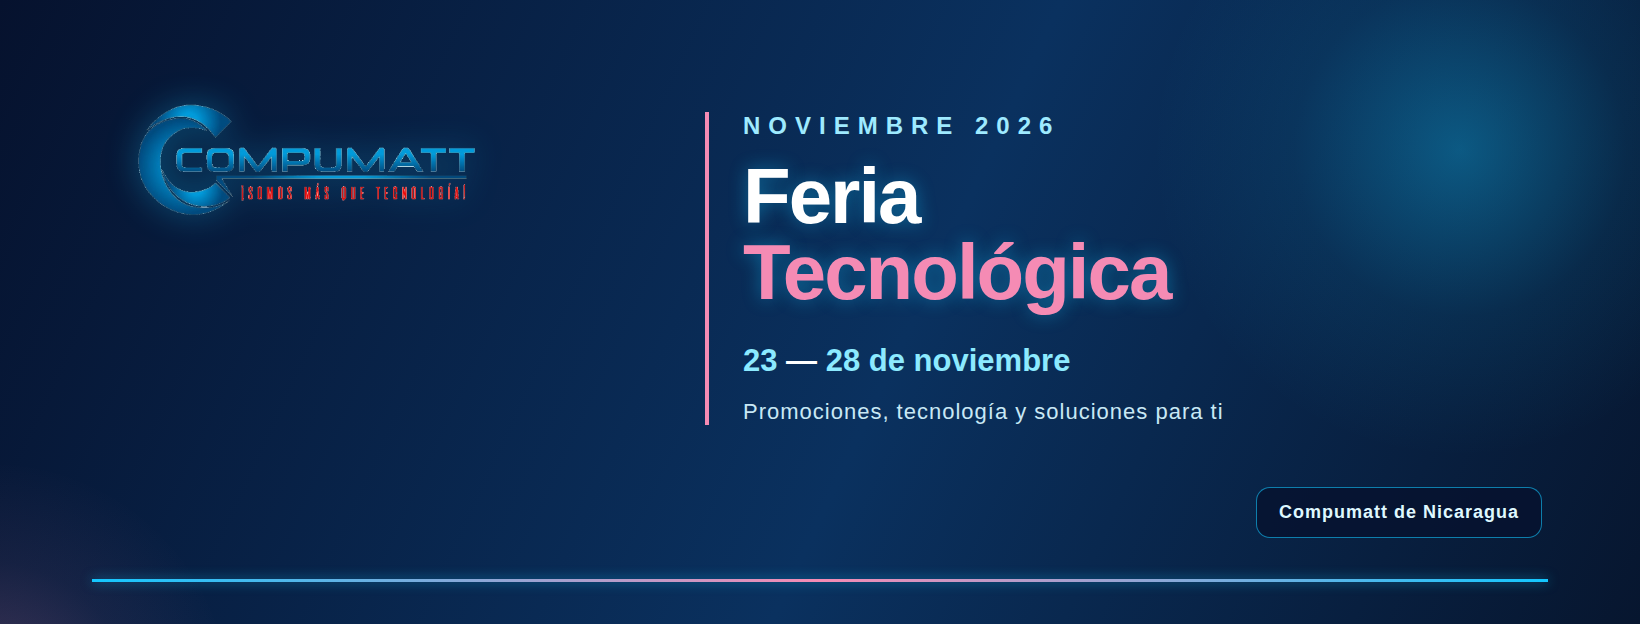
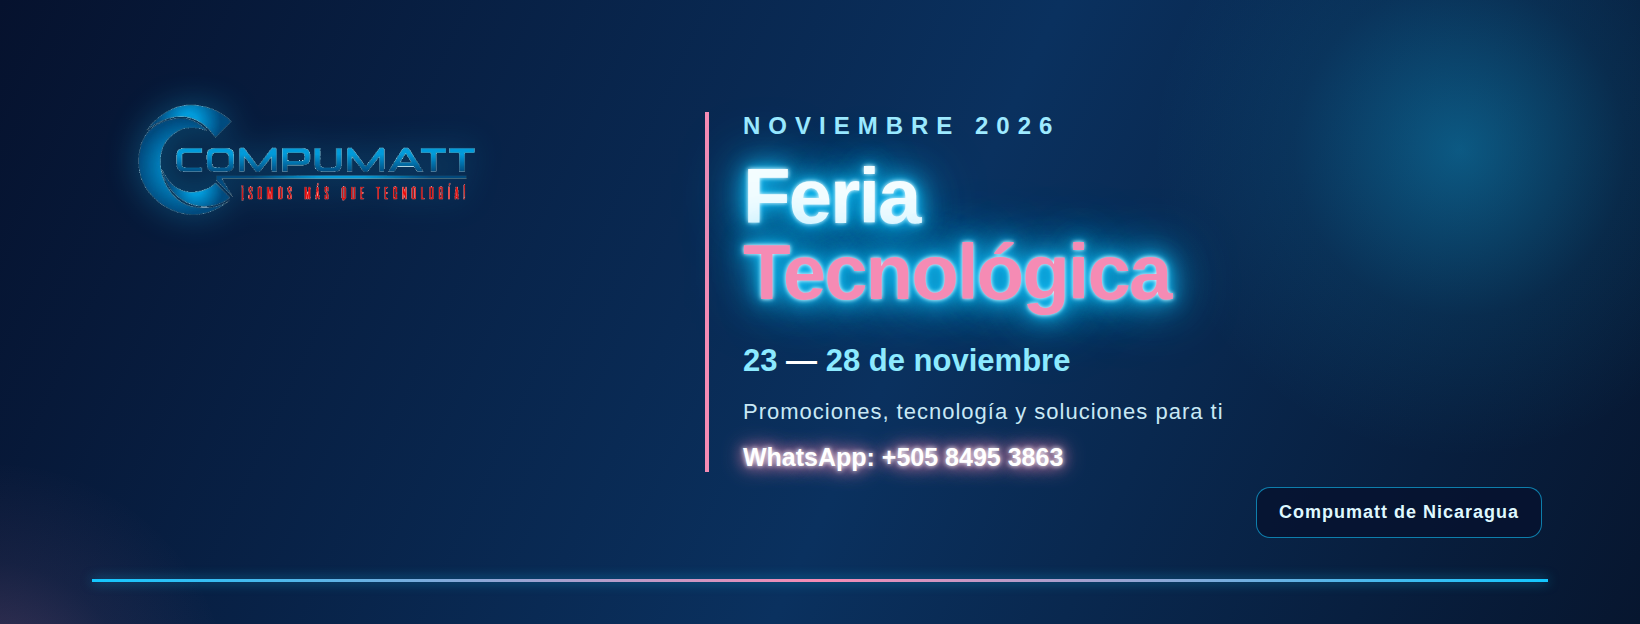
Add luminous title and WhatsApp to Facebook cover

Changed region(s): [[0.4354, 0.2131, 0.7463, 0.5481], [0.4354, 0.7003, 0.653, 0.7917]]

diff --git a/assets/portada-facebook-noviembre.html b/assets/portada-facebook-noviembre.html
@@ -1,3 +1,3 @@
 <!doctype html><html lang="es"><head><meta charset="utf-8"><style>
-*{box-sizing:border-box}html,body{margin:0;width:1640px;height:624px;overflow:hidden}body{font-family:Arial,Helvetica,sans-serif;background:linear-gradient(115deg,#06122e 0%,#0a315f 55%,#07162f 100%);color:#fff}.canvas{position:relative;width:1640px;height:624px;overflow:hidden;padding:70px 92px}.glow{position:absolute;width:620px;height:620px;right:-130px;top:-160px;border-radius:50%;background:radial-gradient(circle,#13c7ff55 0,#13c7ff14 38%,transparent 70%)}.glow2{position:absolute;width:480px;height:480px;left:-250px;bottom:-320px;border-radius:50%;background:radial-gradient(circle,#f58bb444 0,#f58bb410 42%,transparent 72%)}.line{position:absolute;left:92px;right:92px;bottom:42px;height:3px;background:linear-gradient(90deg,#13c7ff,#f58bb4,#13c7ff);box-shadow:0 0 12px #13c7ff99}.logo{position:absolute;left:92px;top:78px;width:425px;height:auto;filter:drop-shadow(0 0 16px #13c7ff55)}.copy{position:absolute;left:705px;top:112px;border-left:4px solid #f58bb4;padding-left:34px}.eyebrow{font-size:24px;letter-spacing:8px;color:#9eeaff;font-weight:800;text-transform:uppercase}.title{margin-top:18px;font-size:78px;line-height:.98;font-weight:900;letter-spacing:-2px;text-shadow:0 0 18px #13c7ff66}.title span{color:#f58bb4}.dates{margin-top:32px;font-size:31px;font-weight:800;color:#fff}.dates b{color:#8ceaff}.tag{margin-top:20px;color:#c8e8f5;font-size:22px;letter-spacing:1px}.badge{position:absolute;right:98px;bottom:86px;padding:14px 22px;border:1px solid #13c7ff99;border-radius:14px;background:#06122ecc;color:#dff8ff;font-size:18px;font-weight:800;letter-spacing:1px}
-</style></head><body><main class="canvas"><div class="glow"></div><div class="glow2"></div><img class="logo" src="../shared/logo-compumatt-transparent.png" alt="Compumatt"><section class="copy"><div class="eyebrow">Noviembre 2026</div><div class="title">Feria<br><span>Tecnológica</span></div><div class="dates"><b>23</b> — <b>28 de noviembre</b></div><div class="tag">Promociones, tecnología y soluciones para ti</div></section><div class="badge">Compumatt de Nicaragua</div><div class="line"></div></main></body></html>
+*{box-sizing:border-box}html,body{margin:0;width:1640px;height:624px;overflow:hidden}body{font-family:Arial,Helvetica,sans-serif;background:linear-gradient(115deg,#06122e 0%,#0a315f 55%,#07162f 100%);color:#fff}.canvas{position:relative;width:1640px;height:624px;overflow:hidden;padding:70px 92px}.glow{position:absolute;width:620px;height:620px;right:-130px;top:-160px;border-radius:50%;background:radial-gradient(circle,#13c7ff55 0,#13c7ff14 38%,transparent 70%)}.glow2{position:absolute;width:480px;height:480px;left:-250px;bottom:-320px;border-radius:50%;background:radial-gradient(circle,#f58bb444 0,#f58bb410 42%,transparent 72%)}.line{position:absolute;left:92px;right:92px;bottom:42px;height:3px;background:linear-gradient(90deg,#13c7ff,#f58bb4,#13c7ff);box-shadow:0 0 12px #13c7ff99}.logo{position:absolute;left:92px;top:78px;width:425px;height:auto;filter:drop-shadow(0 0 16px #13c7ff55)}.copy{position:absolute;left:705px;top:112px;border-left:4px solid #f58bb4;padding-left:34px}.eyebrow{font-size:24px;letter-spacing:8px;color:#9eeaff;font-weight:800;text-transform:uppercase}.title{margin-top:18px;font-family:'Trebuchet MS',Arial,sans-serif;font-size:78px;line-height:.98;font-weight:900;letter-spacing:-2px;color:#f4fdff;text-shadow:0 0 4px #fff,0 0 10px #13c7ff,0 0 22px #13c7ff,0 0 40px #13c7ff,0 0 64px #0a9fe9}.title span{color:#f58bb4}.dates{margin-top:32px;font-size:31px;font-weight:800;color:#fff}.dates b{color:#8ceaff}.tag{margin-top:20px;color:#c8e8f5;font-size:22px;letter-spacing:1px}.phone{margin-top:18px;color:#fff;font-size:25px;font-weight:900;text-shadow:0 0 5px #fff,0 0 14px #f58bb4,0 0 25px #f58bb4}.badge{position:absolute;right:98px;bottom:86px;padding:14px 22px;border:1px solid #13c7ff99;border-radius:14px;background:#06122ecc;color:#dff8ff;font-size:18px;font-weight:800;letter-spacing:1px}
+</style></head><body><main class="canvas"><div class="glow"></div><div class="glow2"></div><img class="logo" src="../shared/logo-compumatt-transparent.png" alt="Compumatt"><section class="copy"><div class="eyebrow">Noviembre 2026</div><div class="title">Feria<br><span>Tecnológica</span></div><div class="dates"><b>23</b> — <b>28 de noviembre</b></div><div class="tag">Promociones, tecnología y soluciones para ti</div><div class="phone">WhatsApp: +505 8495 3863</div></section><div class="badge">Compumatt de Nicaragua</div><div class="line"></div></main></body></html>
